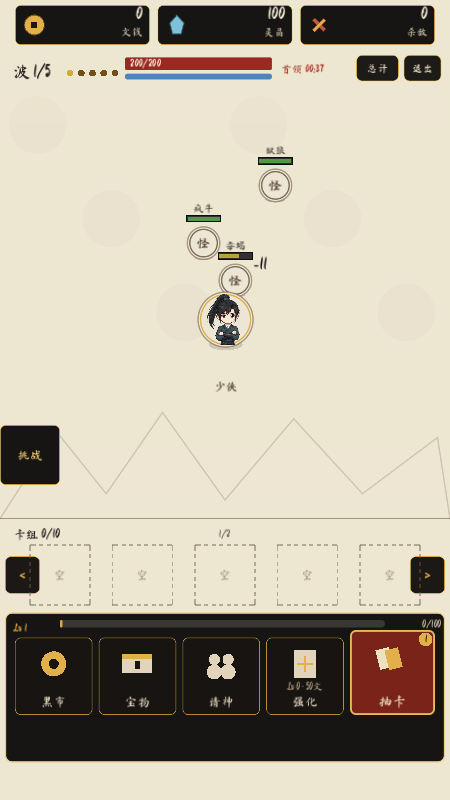
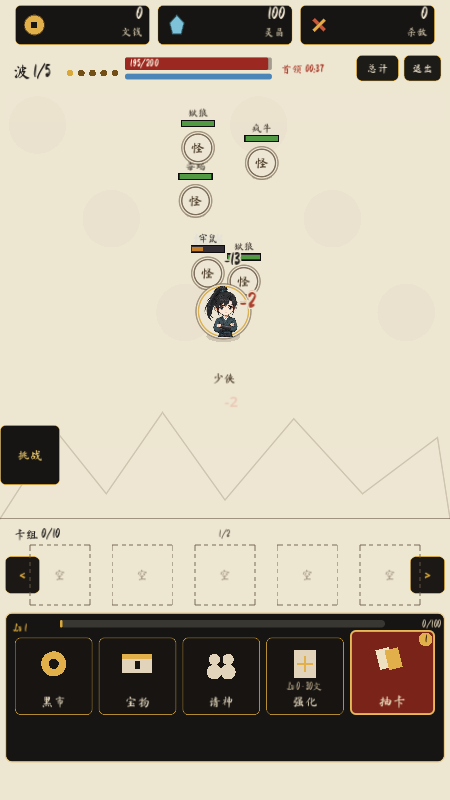
[auto] 自动存档 2026-11-08 19:57

diff --git a/docs/困兽_请神与家传卡组_设计稿.md b/docs/困兽_请神与家传卡组_设计稿.md
@@ -535,7 +535,34 @@
 | 5★ | **全垒打**(入) 眩晕+0.5s · 连撞 眩晕+0.5s · 一路平推 连锁+20% |
 
 - 技能：**肉蛋冲撞** · 物理 · ×1.5 · 1 目标 · CD 6s · 内力 80
-- 彩蛋炫卡：**滚山**（占位，待设计）
+
+#### 滚地龙炫卡 · 滚山
+
+| 项 | 内容 |
+|---|---|
+| 触发 | **4%**（抽到滚地龙家传卡时掷） |
+| 单卡数值 | 撞击伤害 **+10%** |
+| 特效① | **每个被撞的敌人都会反弹一次**（无需 5★ 解锁） |
+| 特效② | **每次触发反弹 → 气血上限增加** |
+| 增幅算法 | 撞击造成的**物理伤害 × 20%** → 永久转成气血上限（当前血量同步补上） |
+
+正循环：撞得狠 → 伤害高 → 血更厚 → 下一撞更狠。
+
+**已实现**：
+
+- 撞击伤害 = **气血上限 × 6%**（物理），200 血 → **12 点**
+- 击退初速 1800 px/s，衰减 0.955/帧，实测飞行 **125px**
+- 连锁用**扫掠线段判定**（这一帧滚过的路径上扫到的都算），比圆心距离可靠得多
+- **无炫卡：全场只有 1 次反弹**
+- **有滚山**：每个敌人各一次 → 无限连锁；**每次反弹 气血上限 +8**
+- 5★ 的眩晕（`para`）已接：撞到即麻痹
+- 演出：土黄 streak + 震屏 + `wood_down`/`melee` + `menu_shaolin` + 土黄潮水
+
+实测（三只怪排成一条线）：
+```
+气血上限 200 → 216（弹了 2 次，每次 +8）
+预算 999 → 997
+```
 
 ## 九、关卡骨架（后续设计，暂未实现）
 
